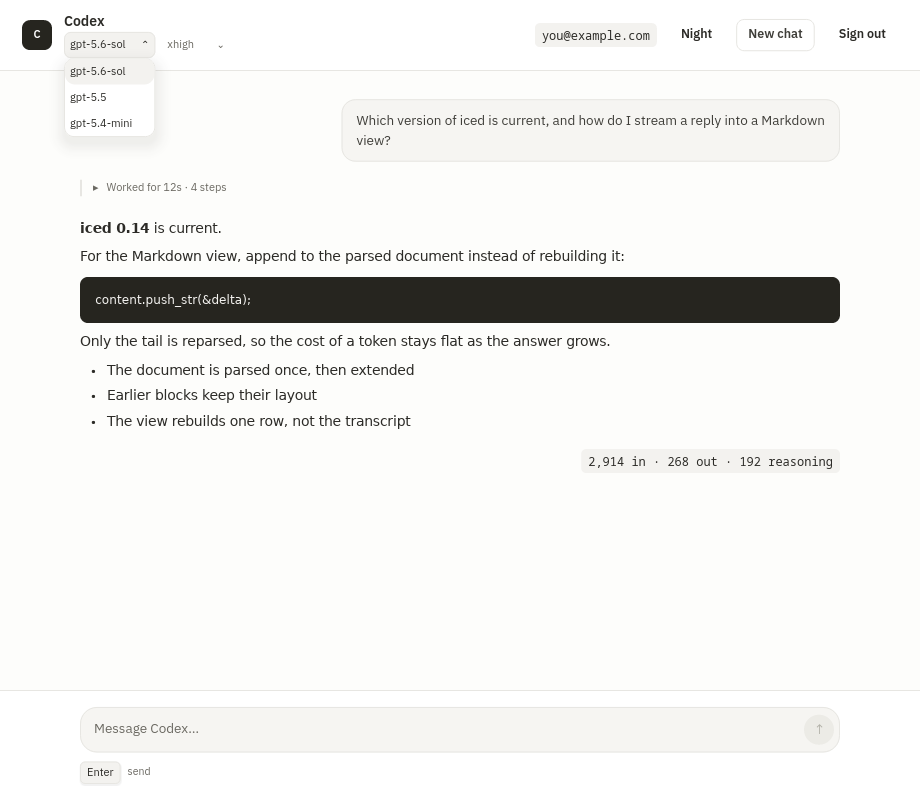
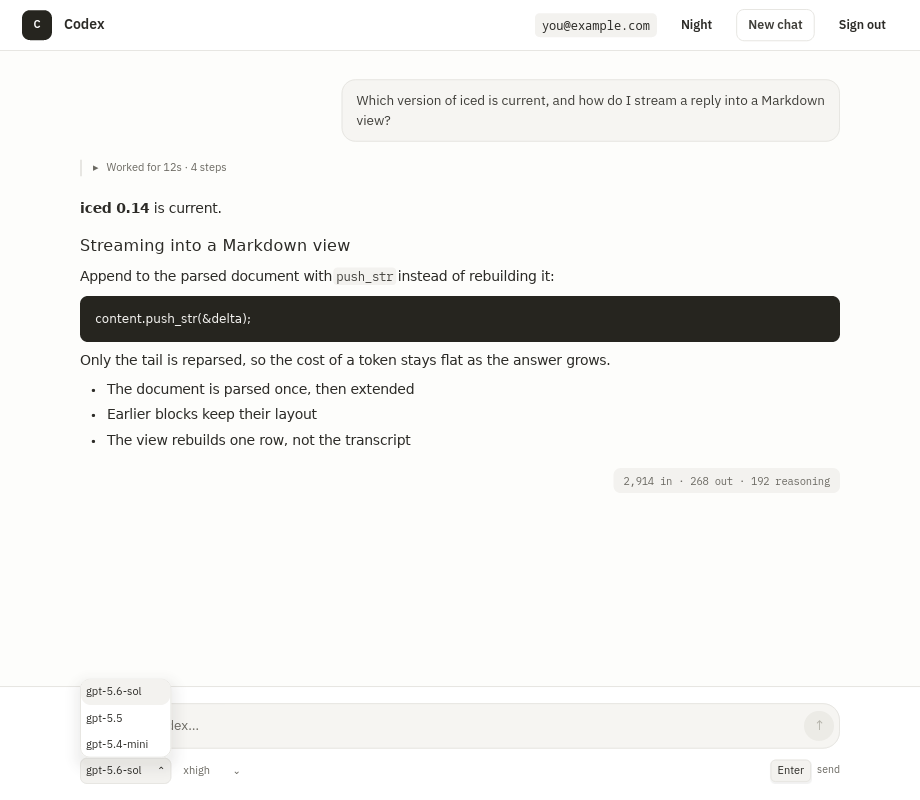
fix(ai-chat): repair the type, and move the pickers to the message
Four things were wrong once they were looked at rather than described.

Inline code was drawn over the words beside it: the highlight is painted
around the span but the line is laid out from the glyphs alone, so the
4px of horizontal padding had nothing reserved for it. It is a hair now,
and the chip carries its own padding through the style instead.

Three heading levels rendered at body size, which is not a hierarchy. The
ladder is tightened — a level-one heading at twice the body size reads as
a banner in a chat row — but every step now differs from the one below.

Inline code took its colours from iced's defaults in the live answer and
from this file's own constants in a settled one, so the two disagreed and
the default is a near-white chip whatever the palette. Both now take the
palette's `accent`, which is what the token bill beside them already used.

The header carried the model and effort pickers, which made it two lines
tall to hold what belongs to the message rather than to the app. They sit
under the composer now and the header is one line.

diff --git a/examples/ai-chat/src/render.rs b/examples/ai-chat/src/render.rs
@@ -19,15 +19,17 @@ use iced::{Color, Element, Font, Length, Padding, border};
 /// Mirrors the `code` font declared in `src/ui/app.ice`.
 const MONO: &str = "Monoplex KR";
 
-/// Link and inline-code colours, following `src/ui/theme.ice`. They are here
-/// rather than passed per row because a colour is a property of the palette,
-/// not of an answer, and the adapter is told only which palette is on.
-const LINK_LIGHT: Color = Color::from_rgb(0.42, 0.29, 0.19);
-const LINK_DARK: Color = Color::from_rgb(0.87, 0.67, 0.47);
-const CODE_BG_LIGHT: Color = Color::from_rgb(0.94, 0.93, 0.91);
-const CODE_BG_DARK: Color = Color::from_rgb(0.17, 0.16, 0.15);
-const CODE_FG_LIGHT: Color = Color::from_rgb(0.34, 0.22, 0.14);
-const CODE_FG_DARK: Color = Color::from_rgb(0.91, 0.78, 0.64);
+/// The palette's `brand` and `accent`/`accent_fg`, following `src/ui/theme.ice`
+/// and matching the `style` block the live answer is drawn with in
+/// `src/ui/app.ice`. They are duplicated here because this adapter builds its
+/// own settings and cannot read a palette — a settled answer and the one still
+/// being written must not disagree about what inline code looks like.
+const LINK_LIGHT: Color = Color::from_rgb(0.627, 0.353, 0.235);
+const LINK_DARK: Color = Color::from_rgb(0.871, 0.667, 0.502);
+const CODE_BG_LIGHT: Color = Color::from_rgb(0.953, 0.949, 0.937);
+const CODE_BG_DARK: Color = Color::from_rgb(0.149, 0.145, 0.137);
+const CODE_FG_LIGHT: Color = Color::from_rgb(0.247, 0.243, 0.224);
+const CODE_FG_DARK: Color = Color::from_rgb(0.847, 0.835, 0.804);
 /// A code block's own ground, dark under either palette — it is the one part
 /// of an answer that should be findable without reading.
 /// On paper the block is ink, and needs no edge. On ink it is a deeper well
@@ -66,7 +68,10 @@ fn style(dark: bool) -> markdown::Style {
     let mono = Font::with_name(MONO);
     markdown::Style {
         font: Font::default(),
-        inline_code_padding: Padding::from([1.0, 4.0]),
+        // The highlight is painted around the span but the line is laid out
+        // from the glyphs alone, so horizontal padding here is drawn over
+        // whatever sits beside it. Keep it to the hair iced itself uses.
+        inline_code_padding: Padding::from([0.0, 3.0]),
         inline_code_highlight: markdown::Highlight {
             background: if dark { CODE_BG_DARK } else { CODE_BG_LIGHT }.into(),
             border: border::rounded(4),
@@ -135,15 +140,16 @@ impl<'a> markdown::Viewer<'a, String> for Blocks {
 pub fn markdown_body(id: i64, source: String, size: f64, dark: bool) -> Element<'static, String> {
     let size = size as f32;
     let mut settings = markdown::Settings::with_text_size(size, style(dark));
-    // The heading scale `with_text_size` derives is built for a document.
-    // Inside a chat row a level-one heading twice the body size reads as a
-    // banner, so the ladder is tightened and the code block left alone.
-    settings.h1_size = (size * 1.45).into();
-    settings.h2_size = (size * 1.3).into();
-    settings.h3_size = (size * 1.15).into();
-    settings.h4_size = size.into();
+    // The ladder `with_text_size` derives is built for a document: a level-one
+    // heading at twice the body size reads as a banner inside a chat row. This
+    // one is tightened, but every step still differs from the one below it —
+    // three levels that all render at body size are not a hierarchy.
+    settings.h1_size = (size * 1.34).into();
+    settings.h2_size = (size * 1.22).into();
+    settings.h3_size = (size * 1.12).into();
+    settings.h4_size = (size * 1.05).into();
     settings.h5_size = size.into();
-    settings.h6_size = size.into();
+    settings.h6_size = (size * 0.94).into();
     settings.code_size = (size * 0.9).into();
     settings.spacing = (size * 0.8).into();
 

diff --git a/examples/ai-chat/src/main.rs b/examples/ai-chat/src/main.rs
@@ -98,6 +98,61 @@ mod perf {
         mode(24).saturating_sub(mode(1))
     }
 
+    /// The same, split: what the state change costs, and what redrawing costs.
+    fn split_at_answer_length(prefix: u32) -> (Duration, Duration) {
+        let token = || {
+            __AiChatMessage::Streamed(Chunk {
+                answer: "another handful of words ".to_owned(),
+                thinking: String::new(),
+                status: "Responding".to_owned(),
+            })
+        };
+        let mut app = booted(1);
+        for _ in 0..prefix {
+            let _ = app.__update(token());
+        }
+        let _ = app.__view();
+        let update_only = measure(|| {
+            let _ = app.__update(token());
+        });
+
+        let mut app = booted(1);
+        for _ in 0..prefix {
+            let _ = app.__update(token());
+        }
+        let _ = app.__view();
+        let both = measure(|| {
+            let _ = app.__update(token());
+            let _ = app.__view();
+        });
+        (update_only, both.saturating_sub(update_only))
+    }
+
+    /// What a token costs once the reply is already `tokens` long.
+    ///
+    /// This is the hot path, and the one that can go quadratic: every token
+    /// lands in a Markdown document that is already on screen. If appending
+    /// reparses from the top, the cost of a token tracks the length of the
+    /// answer so far — and a long reply gets slower as it is written.
+    fn cost_at_answer_length(prefix: u32) -> Duration {
+        let mut app = booted(1);
+        let token = || {
+            __AiChatMessage::Streamed(Chunk {
+                answer: "another handful of words ".to_owned(),
+                thinking: String::new(),
+                status: "Responding".to_owned(),
+            })
+        };
+        for _ in 0..prefix {
+            let _ = app.__update(token());
+        }
+        let _ = app.__view();
+        measure(move || {
+            let _ = app.__update(token());
+            let _ = app.__view();
+        })
+    }
+
     #[test]
     #[ignore = "timing evidence; run explicitly in release mode"]
     fn a_streamed_token_does_not_pay_for_the_settled_transcript() {
@@ -127,6 +182,31 @@ mod perf {
         assert!(
             long < short * 5,
             "per-token cost tracked the transcript: {short:?} -> {long:?}"
+        );
+    }
+
+    /// The claim the streaming path rests on: appending to a parsed document
+    /// costs the same whether the answer is short or long.
+    #[test]
+    #[ignore = "timing evidence; run explicitly in release mode"]
+    fn a_token_costs_the_same_however_long_the_answer_already_is() {
+        if cfg!(debug_assertions) {
+            eprintln!("skipped: run with --release");
+            return;
+        }
+        let mut seen = Vec::new();
+        for prefix in [0, 250, 1000, 3000] {
+            let cost = cost_at_answer_length(prefix);
+            let (update, view) = split_at_answer_length(prefix);
+            eprintln!(
+                "{prefix:>5} written  {cost:>10?} per token   (append {update:>9?}, redraw {view:>9?})"
+            );
+            seen.push(cost);
+        }
+        let (first, last) = (seen[0], seen[seen.len() - 1]);
+        assert!(
+            last < first * 4,
+            "the cost of a token tracked the length of the answer: {first:?} -> {last:?}"
         );
     }
 }

diff --git a/examples/ai-chat/src/codex.rs b/examples/ai-chat/src/codex.rs
@@ -1132,8 +1132,9 @@ fn sample_rows(dark: bool) -> Vec<Entry> {
             -6,
             false,
             Entry::new("answer", "").body(
-                "**iced 0.14** is current.\n\nFor the Markdown view, append to the parsed \
-                 document instead of rebuilding it:\n\n\
+                "**iced 0.14** is current.\n\n\
+                 ## Streaming into a Markdown view\n\n\
+                 Append to the parsed document with `push_str` instead of rebuilding it:\n\n\
                  ```rust\n\
                  content.push_str(&delta);\n\
                  ```\n\n\
